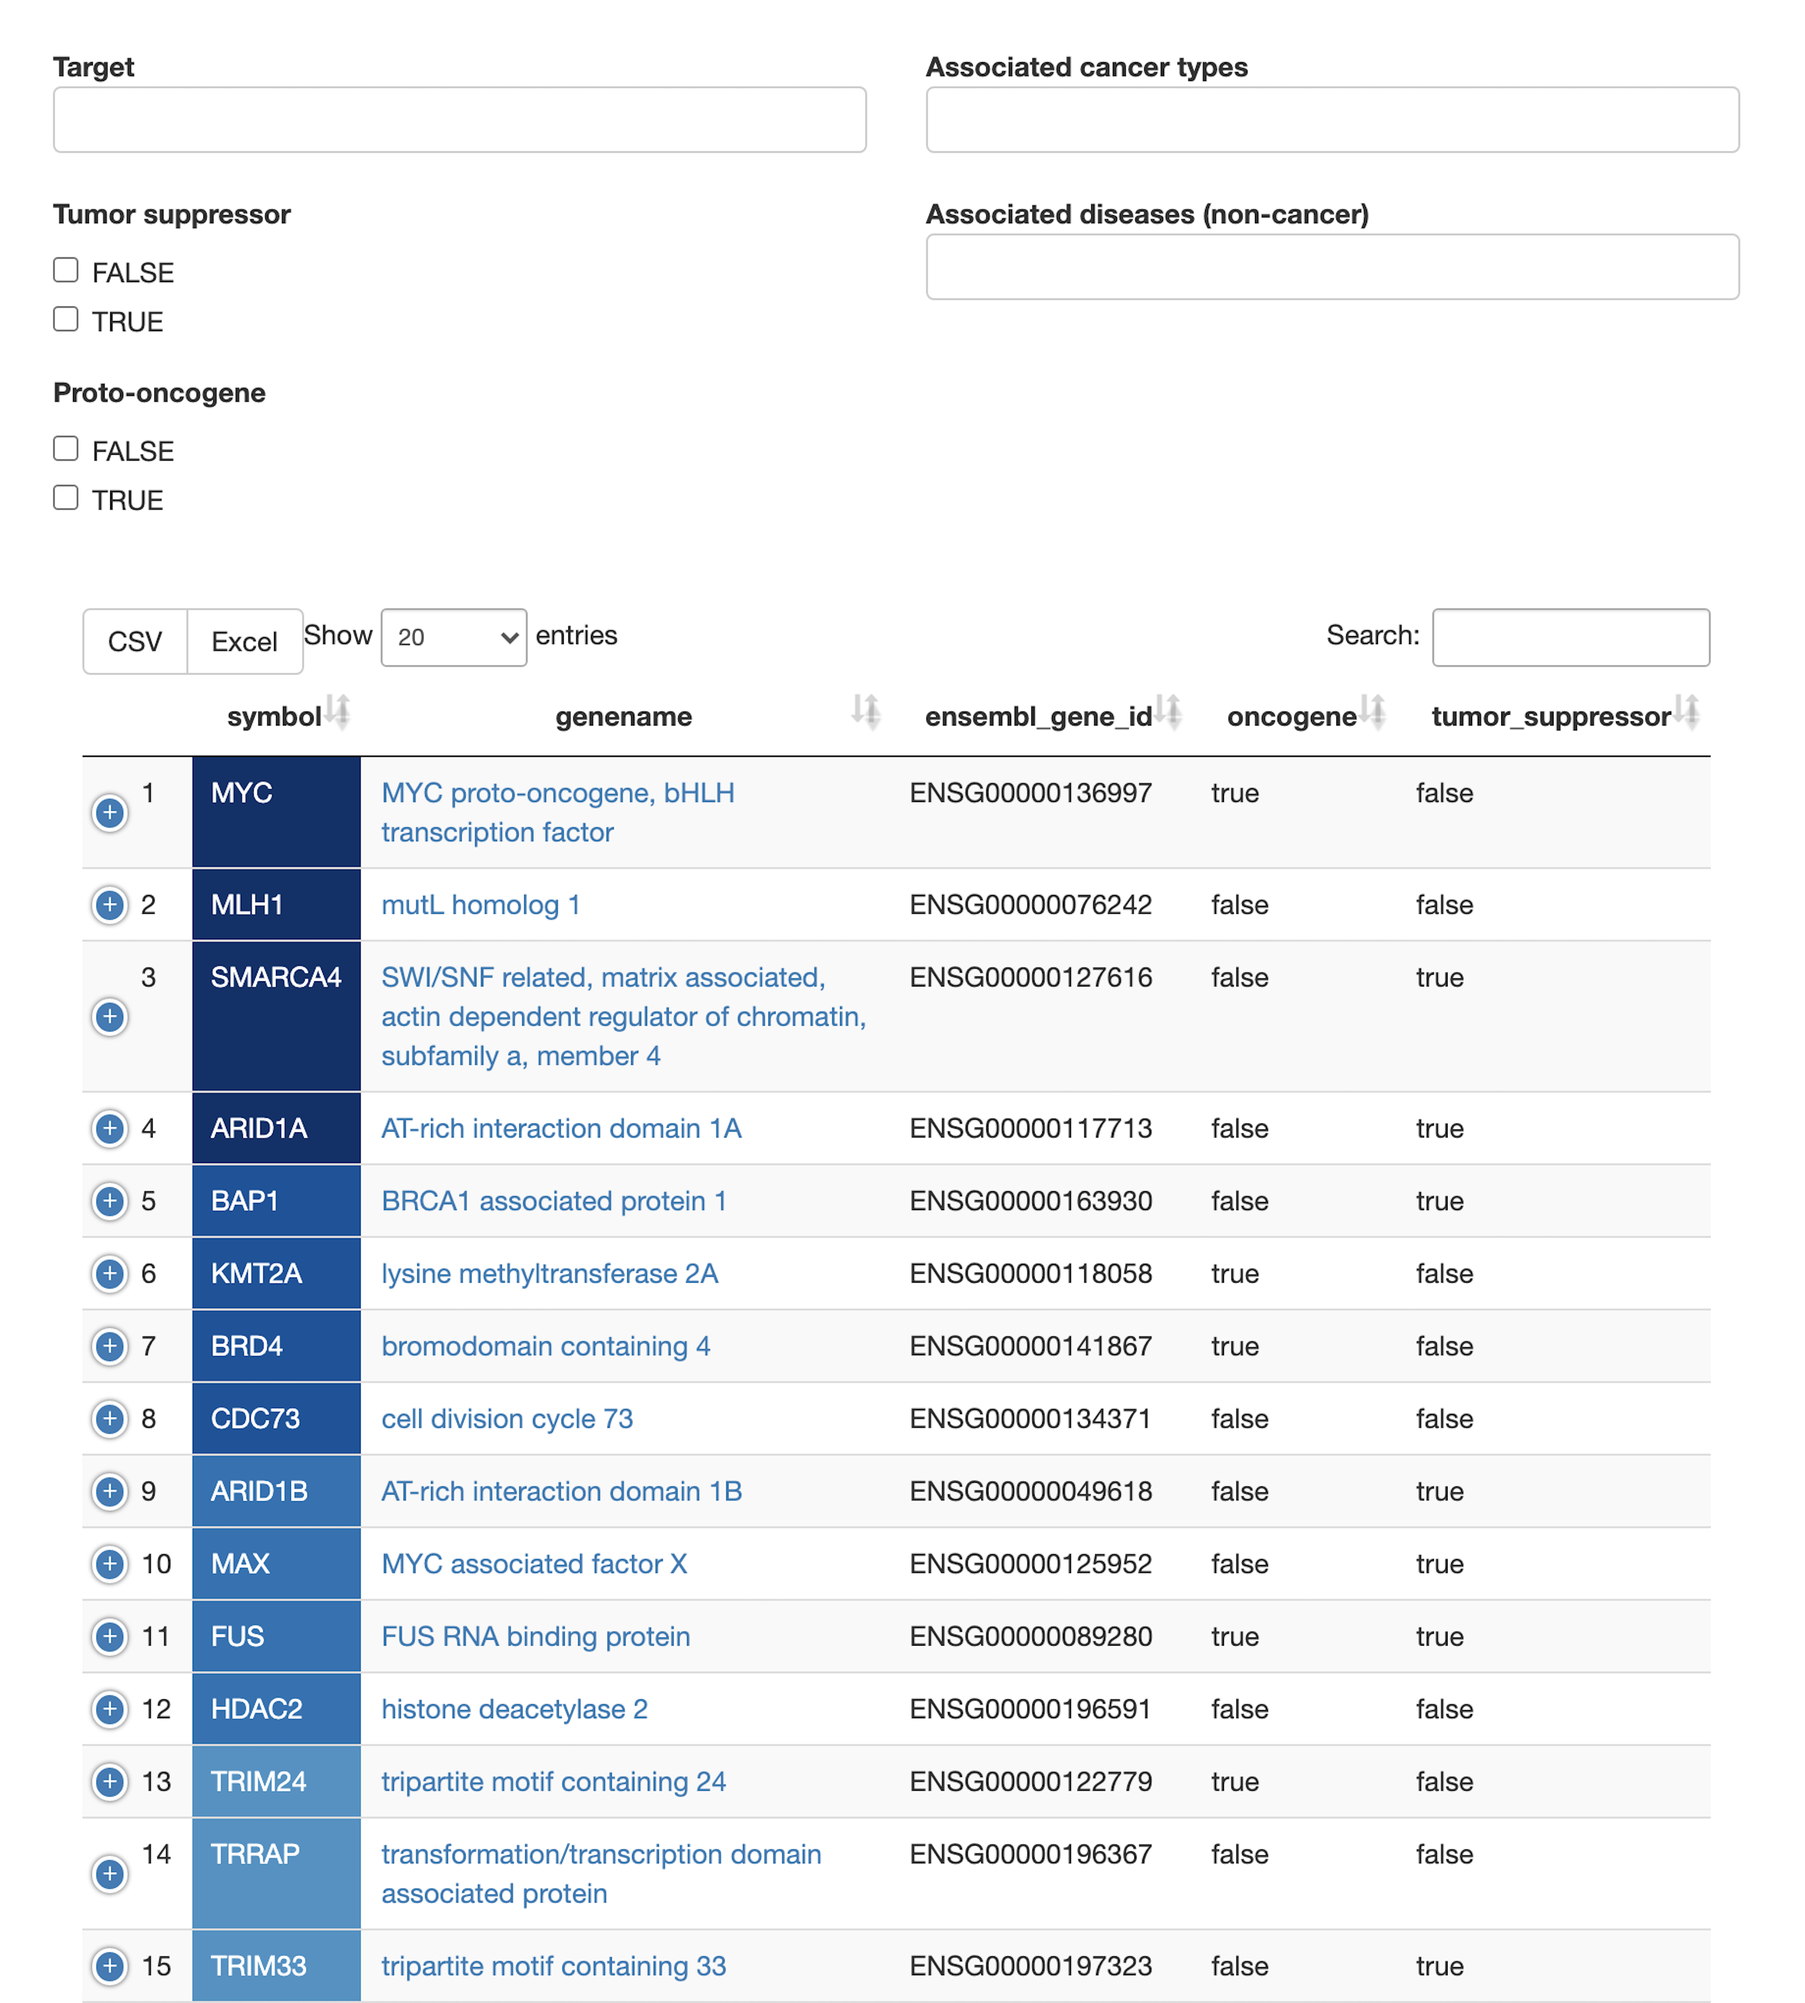
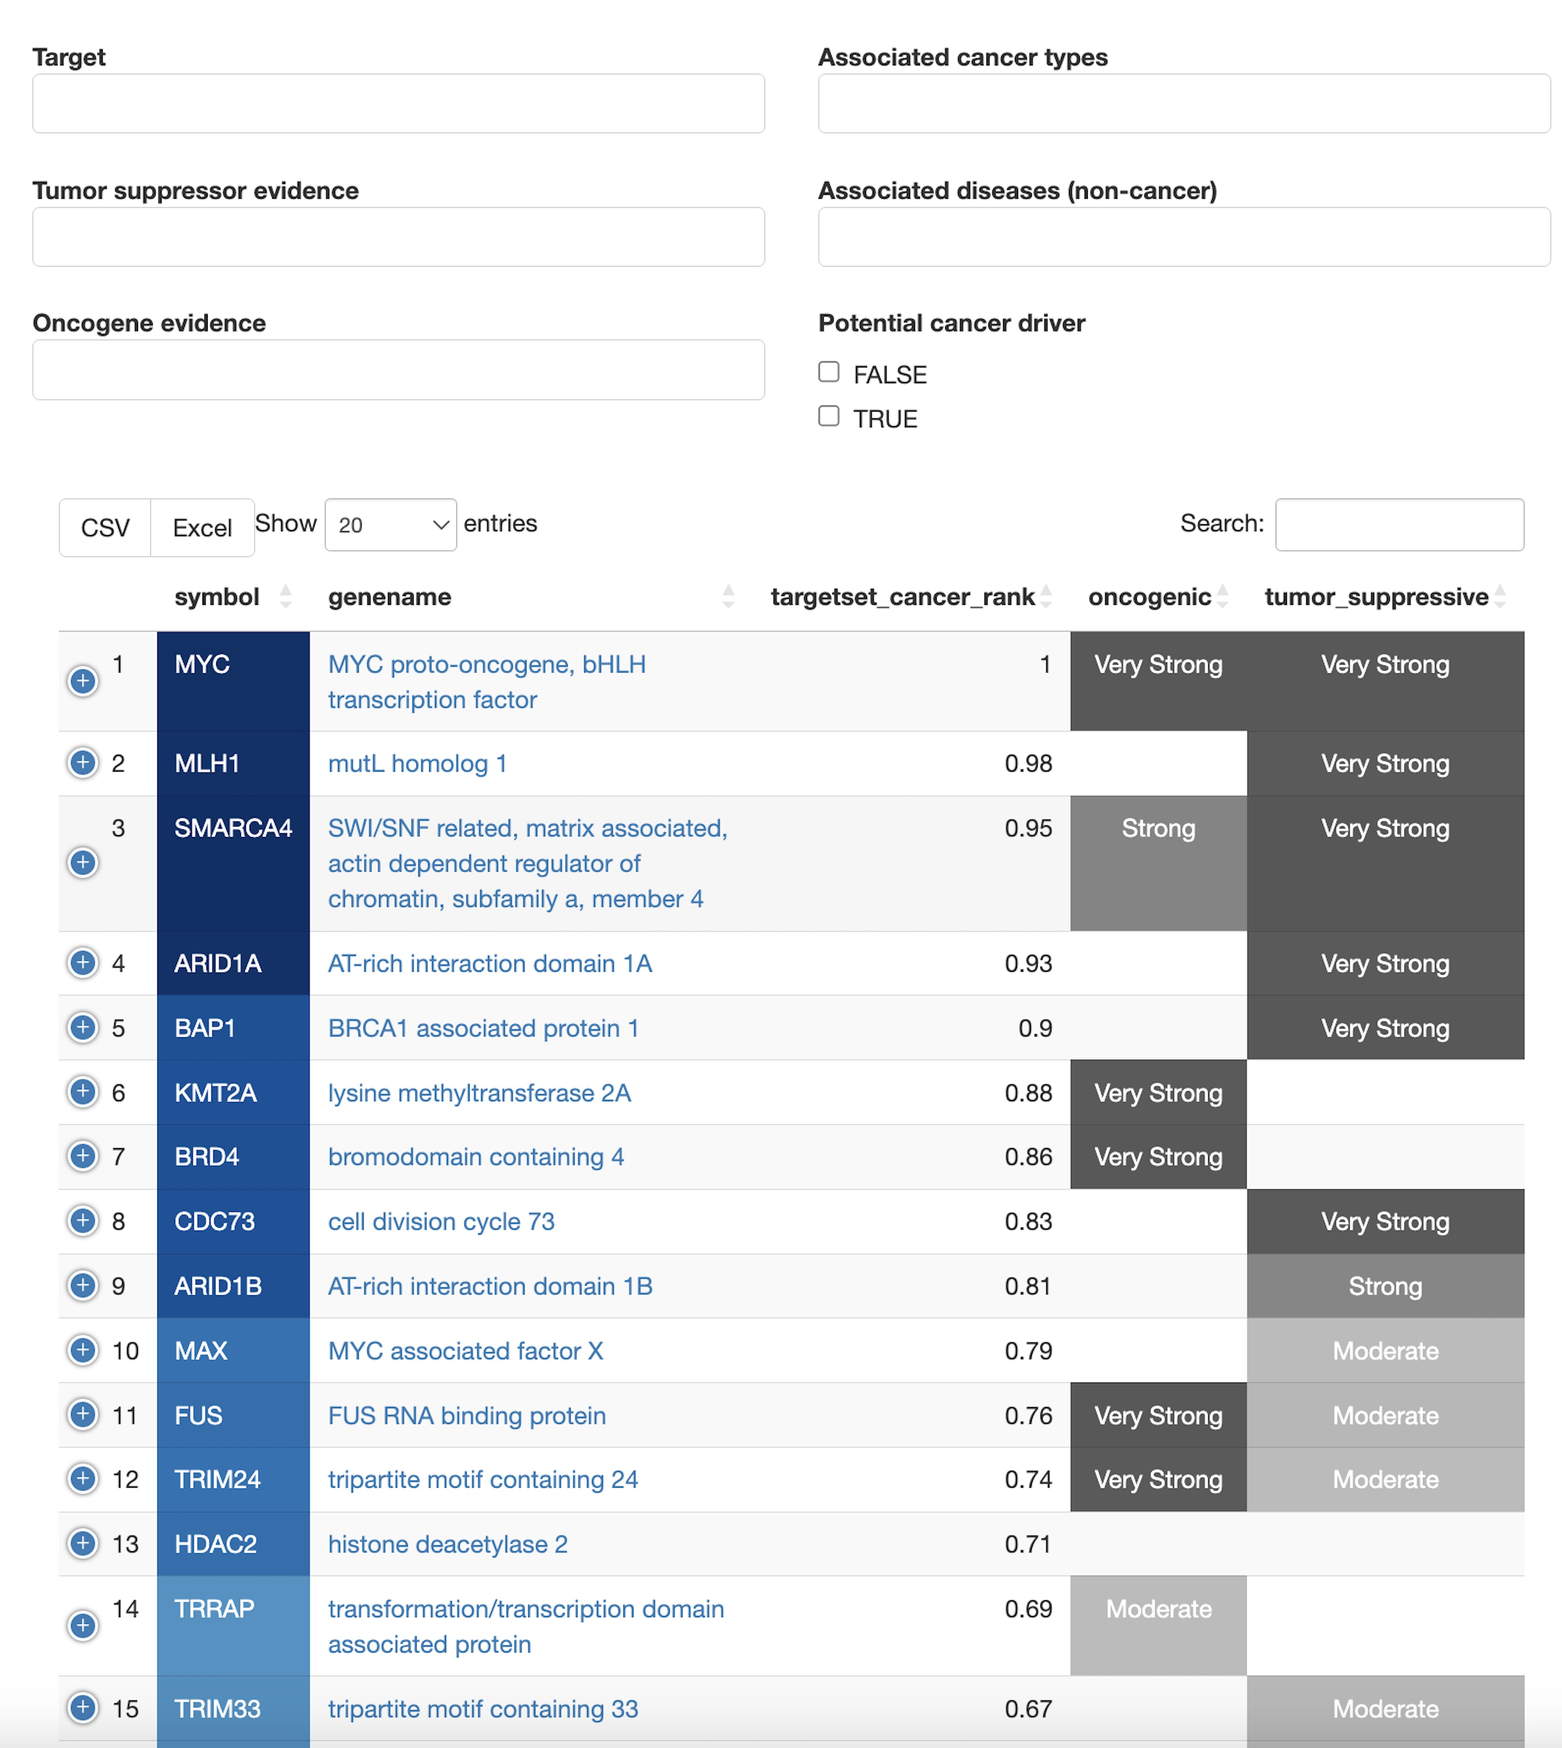
revised oncogenic/tumor suppressive

diff --git a/pkgdown/index.md b/pkgdown/index.md
@@ -36,6 +36,9 @@ following scientific questions for a given gene list:
 
 -   Which diseases/tumor types are known to be associated with genes in
     the query set, and to what extent?
+-   Which genes in the query set are known to have oncogenic or tumor 
+    suppressive roles, using evidence from the biomedical literature and 
+    curated resources?
 -   Which genes in the query set are attributed with cancer hallmark
     evidence?
 -   Which proteins in the query sets are druggable in different cancer
